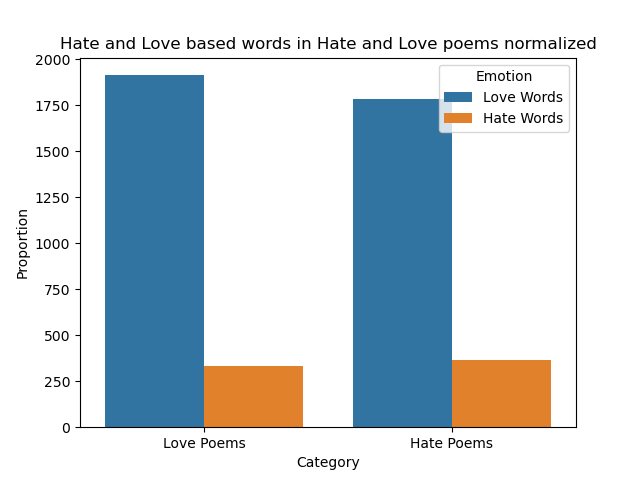
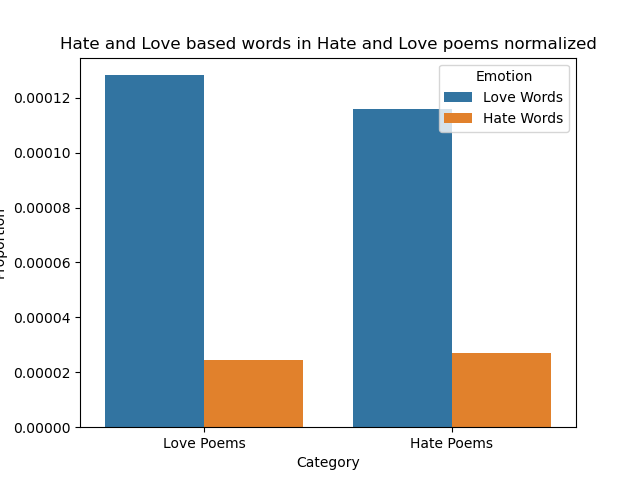
hate_and_love_terms_proportions.py: Improve normalization to include length of all tokens

diff --git a/hate_and_love_terms_proportions.py b/hate_and_love_terms_proportions.py
@@ -4,6 +4,10 @@ import pandas as pd
 import seaborn as sns
 import matplotlib.pyplot as plt
 from nltk.stem.porter import *
+from nltk.tokenize import word_tokenize
+from nltk.stem import PorterStemmer
+from tqdm import tqdm
+
 
 CSV_DIR = "data/csv"
 
@@ -74,9 +78,24 @@ love_vocab: set = {
 
 stemmer = PorterStemmer()
 
-hate_vocab = [stemmer.stem(word) for word in hate_vocab if ' ' not in word]  
-love_vocab = [stemmer.stem(word) for word in love_vocab if ' ' not in word]  
+hate_vocab = set([stemmer.stem(word) for word in hate_vocab if ' ' not in word])
+love_vocab = set([stemmer.stem(word) for word in love_vocab if ' ' not in word])
 
+
+def proportion_of_words(texts, vocab):
+    
+    stemmer = PorterStemmer()
+    matching_total = 0
+    total_tokens = 0
+    for text in tqdm(texts, desc="Analyzing proportion of vocabulary in poems"):
+        matching = 0
+        text = word_tokenize(text)
+        total_tokens += len(text)
+        for w in text:
+            if stemmer.stem(w) in vocab:
+                matching += 1
+        matching_total += matching
+    return matching_total/total_tokens/len(vocab)
 
 if __name__ == "__main__":
     
@@ -87,11 +106,11 @@ if __name__ == "__main__":
     
     # Summing over all texts in Hate and Love and the occurences of Hate and Love words
     # We normalize by the length of the respective set to make the size of the related words list less relevant 
-    love_in_love = sum([sum([text.count(w) for w in love_vocab])/len(love_vocab) for text in love_texts])
-    hate_in_love = sum([sum([text.count(w) for w in hate_vocab])/len(hate_vocab) for text in love_texts])
+    love_in_love = proportion_of_words(love_texts,love_vocab)
+    hate_in_love = proportion_of_words(love_texts,hate_vocab)    
     
-    love_in_hate = sum([sum([text.count(w) for w in love_vocab])/len(love_vocab) for text in hate_texts])
-    hate_in_hate = sum([sum([text.count(w) for w in hate_vocab])/len(hate_vocab) for text in hate_texts])
+    love_in_hate = proportion_of_words(hate_texts,love_vocab)
+    hate_in_hate = proportion_of_words(hate_texts,hate_vocab)
 
     data = pd.DataFrame({
         'Category': ['Love Poems', 'Love Poems', 'Hate Poems', 'Hate Poems'],
